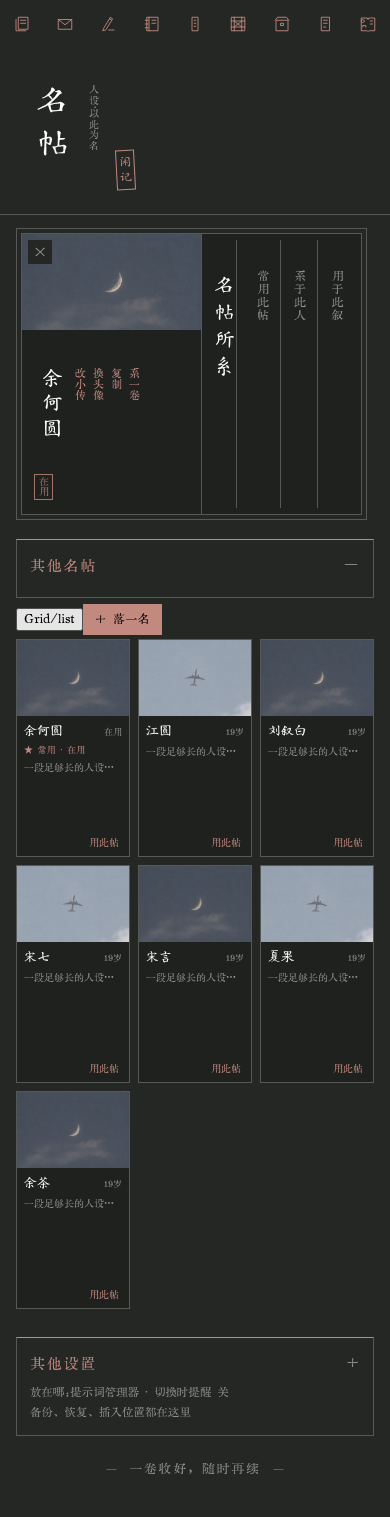
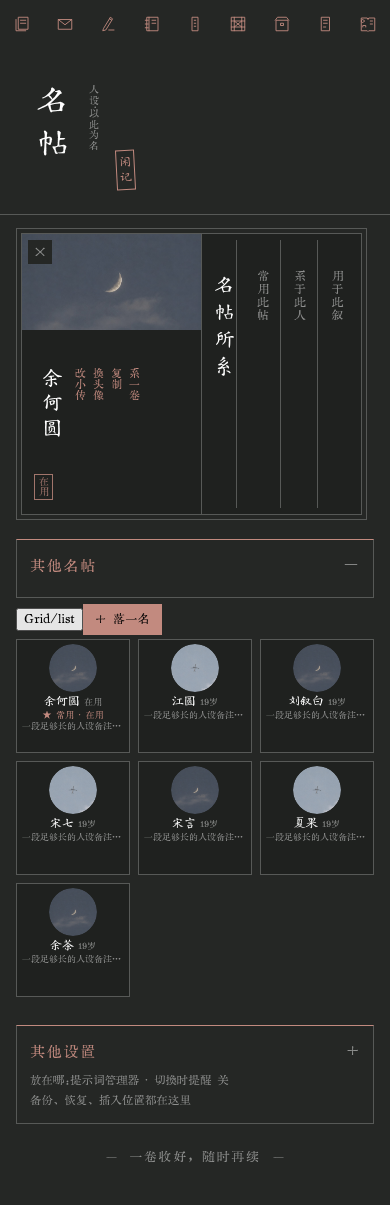
fix: separate vertical collection rails from square grids

diff --git a/assets/folio/folio.css b/assets/folio/folio.css
@@ -127,11 +127,11 @@ html.sb-bar.sb-folio .sb-folio-native :is(#extensions_details,#third_party_exten
 html.sb-bar.sb-folio .sb-folio-native :is(#extensions_details,#third_party_extension_button):before,html.sb-bar.sb-folio .sb-folio-native :is(#extensions_details,#third_party_extension_button):after{content:none!important}
 html.sb-bar.sb-folio #rm_extensions_block .sb-folio-native :is(#extensions_details,#third_party_extension_button){width:25px!important;min-width:0!important;max-width:25px;height:180px;box-sizing:border-box;border:0!important;outline:none!important;box-shadow:none!important;background:none!important;-webkit-tap-highlight-color:transparent}
 html.sb-bar.sb-folio #rm_extensions_block .sb-folio-card:has(:is(#extensions_details,#third_party_extension_button):focus-visible){border-color:var(--sb-bar-accent)!important}
-/* Native list/grid modes share the same compact collection card. */
-html.sb-bar.sb-folio :is(#rm_print_characters_block,#user_avatar_block){display:grid!important;grid-template-columns:minmax(0,1fr);align-content:start;align-items:stretch;gap:8px;width:100%;height:auto;max-width:100%;overflow:visible!important;padding:4px 0 12px!important;box-sizing:border-box}
-html.sb-bar.sb-folio body.charListGrid #rm_print_characters_block,html.sb-bar.sb-folio #user_avatar_block.gridView{grid-template-columns:repeat(3,minmax(0,1fr))!important}
-html.sb-bar.sb-folio :is(#rm_print_characters_block,#user_avatar_block) :is(.character_select,.group_select,.avatar-container){position:relative;display:block!important;flex:none!important;min-width:0!important;width:100%!important;max-width:none!important;height:116px;margin:0!important;padding:10px 12px 10px 106px!important;box-sizing:border-box;border:1px solid var(--sb-bar-line)!important;outline:none!important;border-radius:0;background:var(--sb-bar-paper);content-visibility:visible;contain-intrinsic-size:none;overflow:hidden}
-html.sb-bar.sb-folio :is(#rm_print_characters_block,#user_avatar_block) :is(.character_select,.group_select,.avatar-container) .avatar{position:absolute;inset:0 auto 0 0;width:94px!important;height:100%!important;margin:0!important;padding:0;border:0!important;border-radius:0!important;overflow:hidden}
+/* List: narrow vertical posts in a horizontal rail. Grid: square tiles with round avatars. */
+html.sb-bar.sb-folio :is(#rm_print_characters_block,#user_avatar_block){display:flex!important;flex-direction:row!important;flex-wrap:nowrap!important;align-items:stretch;gap:8px;width:100%;height:auto;max-width:100%;overflow-x:auto!important;overflow-y:hidden!important;padding:4px 0 12px!important;box-sizing:border-box;scrollbar-width:thin}
+html.sb-bar.sb-folio body.charListGrid #rm_print_characters_block,html.sb-bar.sb-folio #user_avatar_block.gridView{display:grid!important;grid-template-columns:repeat(3,minmax(0,1fr))!important;overflow:visible!important}
+html.sb-bar.sb-folio :is(#rm_print_characters_block,#user_avatar_block) :is(.character_select,.group_select,.avatar-container){position:relative;display:block!important;flex:0 0 108px!important;min-width:0!important;width:108px!important;max-width:none!important;height:246px;margin:0!important;padding:84px 7px 25px!important;box-sizing:border-box;border:1px solid var(--sb-bar-line)!important;outline:none!important;border-radius:0;background:var(--sb-bar-paper);content-visibility:visible;contain-intrinsic-size:none;overflow:hidden}
+html.sb-bar.sb-folio :is(#rm_print_characters_block,#user_avatar_block) :is(.character_select,.group_select,.avatar-container) .avatar{position:absolute;inset:0 0 auto 0;width:100%!important;height:76px!important;margin:0!important;padding:0;border:0!important;border-radius:0!important;overflow:hidden}
 html.sb-bar.sb-folio :is(#rm_print_characters_block,#user_avatar_block) .avatar img{width:100%!important;height:100%!important;object-fit:cover;border-radius:0!important;border:0;box-shadow:none}
 html.sb-bar.sb-folio :is(#rm_print_characters_block,#user_avatar_block) :is(.character_select_container,.group_select_container){position:static!important;display:block!important;width:100%!important;min-width:0;max-width:none;flex:none!important;margin:0;padding:0}
 html.sb-bar.sb-folio :is(#rm_print_characters_block,#user_avatar_block) .character_name_block{position:static;display:flex!important;align-items:baseline;flex-direction:row!important;flex-wrap:nowrap!important;gap:4px;width:100%;min-width:0}
@@ -150,9 +150,19 @@ html.sb-bar.sb-folio #rm_print_characters_block .tags_inline .tag_remove{display
 html.sb-bar.sb-folio #user_avatar_block .avatar_container_states{display:none!important}
 html.sb-bar.sb-folio :is(#rm_print_characters_block,#user_avatar_block) :is(.character_select,.group_select,.avatar-container):after{content:'相见';position:absolute;right:10px;bottom:6px;margin:0;padding:0;writing-mode:horizontal-tb;font:10px/1.4 var(--sb-type-body);color:var(--sb-bar-accent)}
 html.sb-bar.sb-folio #user_avatar_block .avatar-container:after{content:'用此帖'}
-html.sb-bar.sb-folio body.charListGrid #rm_print_characters_block :is(.character_select,.group_select),html.sb-bar.sb-folio #user_avatar_block.gridView .avatar-container{height:218px!important;padding:82px 7px 23px!important}
-html.sb-bar.sb-folio body.charListGrid #rm_print_characters_block .avatar,html.sb-bar.sb-folio #user_avatar_block.gridView .avatar{inset:0 0 auto 0;width:100%!important;height:76px!important}
-html.sb-bar.sb-folio body.charListGrid #rm_print_characters_block .ch_name,html.sb-bar.sb-folio #user_avatar_block.gridView .ch_name{font-size:13px!important}
+/* Vertical text belongs only to the horizontally scrolling list. */
+html.sb-bar.sb-folio :is(body:not(.charListGrid) #rm_print_characters_block,#user_avatar_block:not(.gridView)) :is(.character_select_container,.group_select_container){display:flex!important;flex-direction:row!important;gap:4px;height:134px;align-items:flex-start}
+html.sb-bar.sb-folio :is(body:not(.charListGrid) #rm_print_characters_block,#user_avatar_block:not(.gridView)) .character_name_block{display:contents!important}
+html.sb-bar.sb-folio :is(body:not(.charListGrid) #rm_print_characters_block,#user_avatar_block:not(.gridView)) :is(.ch_name,.ch_description,.ch_additional_info,.sb-folio-collection-flags,.tags_inline){writing-mode:vertical-rl!important;text-orientation:mixed;flex:none!important;width:12px!important;max-width:12px!important;height:100%!important;max-height:100%!important;margin:0!important;line-height:12px!important;white-space:nowrap;overflow:hidden;text-overflow:ellipsis}
+html.sb-bar.sb-folio :is(body:not(.charListGrid) #rm_print_characters_block,#user_avatar_block:not(.gridView)) .ch_name{width:21px!important;max-width:21px!important;font-size:17px!important;line-height:21px!important}
+html.sb-bar.sb-folio :is(body:not(.charListGrid) #rm_print_characters_block,#user_avatar_block:not(.gridView)) .ch_additional_info{width:9px!important;max-width:9px!important;font-size:8px!important;line-height:9px!important}
+html.sb-bar.sb-folio body.charListGrid #rm_print_characters_block :is(.character_select,.group_select),html.sb-bar.sb-folio #user_avatar_block.gridView .avatar-container{width:100%!important;height:auto!important;aspect-ratio:1;padding:55px 5px 3px!important}
+html.sb-bar.sb-folio body.charListGrid #rm_print_characters_block .avatar,html.sb-bar.sb-folio #user_avatar_block.gridView .avatar{inset:4px auto auto 50%;transform:translateX(-50%);width:48px!important;height:48px!important;border-radius:50%!important}
+html.sb-bar.sb-folio body.charListGrid #rm_print_characters_block .avatar img,html.sb-bar.sb-folio #user_avatar_block.gridView .avatar img{border-radius:50%!important}
+html.sb-bar.sb-folio body.charListGrid #rm_print_characters_block .ch_name,html.sb-bar.sb-folio #user_avatar_block.gridView .ch_name{font-size:12px!important;line-height:14px!important;text-align:center!important;flex:0 1 auto}
+html.sb-bar.sb-folio :is(body.charListGrid #rm_print_characters_block,#user_avatar_block.gridView) .character_name_block{justify-content:center}
+html.sb-bar.sb-folio :is(body.charListGrid #rm_print_characters_block,#user_avatar_block.gridView) :is(.ch_description,.tags_inline,.sb-folio-collection-flags){height:10px;line-height:10px!important;font-size:9px!important;margin:1px 0 0;text-align:center}
+html.sb-bar.sb-folio :is(body.charListGrid #rm_print_characters_block,#user_avatar_block.gridView) :is(.character_select,.group_select,.avatar-container):after{content:none}
 html.sb-bar.sb-folio :is(#rm_print_characters_block,#user_avatar_block) :is(.empty_block,.text_block,.hidden_block,.avatar_upload){grid-column:1/-1}
 html.sb-bar.sb-folio .sb-favs>.sb-label{display:none!important}
 html.sb-bar.sb-folio .sb-favrow{border:0;margin:12px 0 16px}

diff --git a/docs/folio-review-fixes.md b/docs/folio-review-fixes.md
@@ -13,13 +13,13 @@
 - 百工匣：修复两个入口的白色焦点框与点击区域溢出，键盘焦点使用主题色提示；下方分组补齐四边，原生 details 包裹时避免双层框。
 - 名帖：保留原来的左右布局与紧凑尺寸，合为同底色、同外框的一张帖子；左侧上方长方形头像占约三分之一，下方姓名与操作紧凑竖排；右侧仍是“名帖所系”及三个等距竖栏，两侧没有间隙，只以一条竖线分隔；关联世界书显示为“系一卷”；其他设置从标题下方展开。三个范围显示“常用此帖／系于此人／用于此叙”，分别对应原生默认人设、当前角色、当前聊天的锁定按钮。其他页面保留原有页边距。名帖采用较深的同色底。
 
-- 故人录与其他名帖：共用窄版陈列卡，保留原生姓名、备注、版本、标签与常用/绑定标记；文字单行超出省略，悬停可读完整内容。原生网格模式每行三格，列表模式每行一项；去掉置顶区残留的双短横线；“新建名帖”显示为“落一名”。搜索改为“寻一位故人”，排序文案随主题切换；原生筛选入口改成“常念／同行／书匣／理签／寻签／清筛”小印签，保留选中与排除状态。“新建角色”显示为“逢一人”。首页快捷入口与顶栏共用这一套线条图标；聊天输入框统一行高与上下留白，保留多行展开与原生进度条。
+- 故人录与其他名帖：列表用窄长名帖卡，长方形头像在上，下方姓名、备注、版本、标签与常用/绑定标记竖排，所有条目在同一行左右滑动。网格模式保留每行三个方格、圆头像，姓名与补回的信息横排，文字单行超出省略；去掉置顶区残留的双短横线；“新建名帖”显示为“落一名”。搜索改为“寻一位故人”，排序文案随主题切换；原生筛选入口改成“常念／同行／书匣／理签／寻签／清筛”小印签，保留选中与排除状态。“新建角色”显示为“逢一人”。首页快捷入口与顶栏共用这一套线条图标；聊天输入框统一行高与上下留白，保留多行展开与原生进度条。
 
 ## 本地审阅图
 
 [名帖左右单帖排版](folio-runtime/persona-single-post.png)使用仓库现有示例图演示比例；实际使用当前人设头像，不替换用户图片。[小调色盘实时预览](folio-runtime/appearance-live-picker.png)展示停留在装帧页调色。
 
-[故人录三列陈列](folio-runtime/characters-three-column.png)、[单列列表](folio-runtime/characters-single-column.png)与[其他名帖三列](folio-runtime/personas-three-column.png)使用测试数据演示姓名、备注和标签的完整结构；原生切换按钮沿用宿主行为。
+[故人录三列陈列](folio-runtime/characters-three-column.png)、[竖排横滑列表](folio-runtime/characters-horizontal-list.png)与[其他名帖三列](folio-runtime/personas-three-column.png)使用测试数据演示姓名、备注和标签的完整结构；原生切换按钮沿用宿主行为。
 
 ## 验证
 
